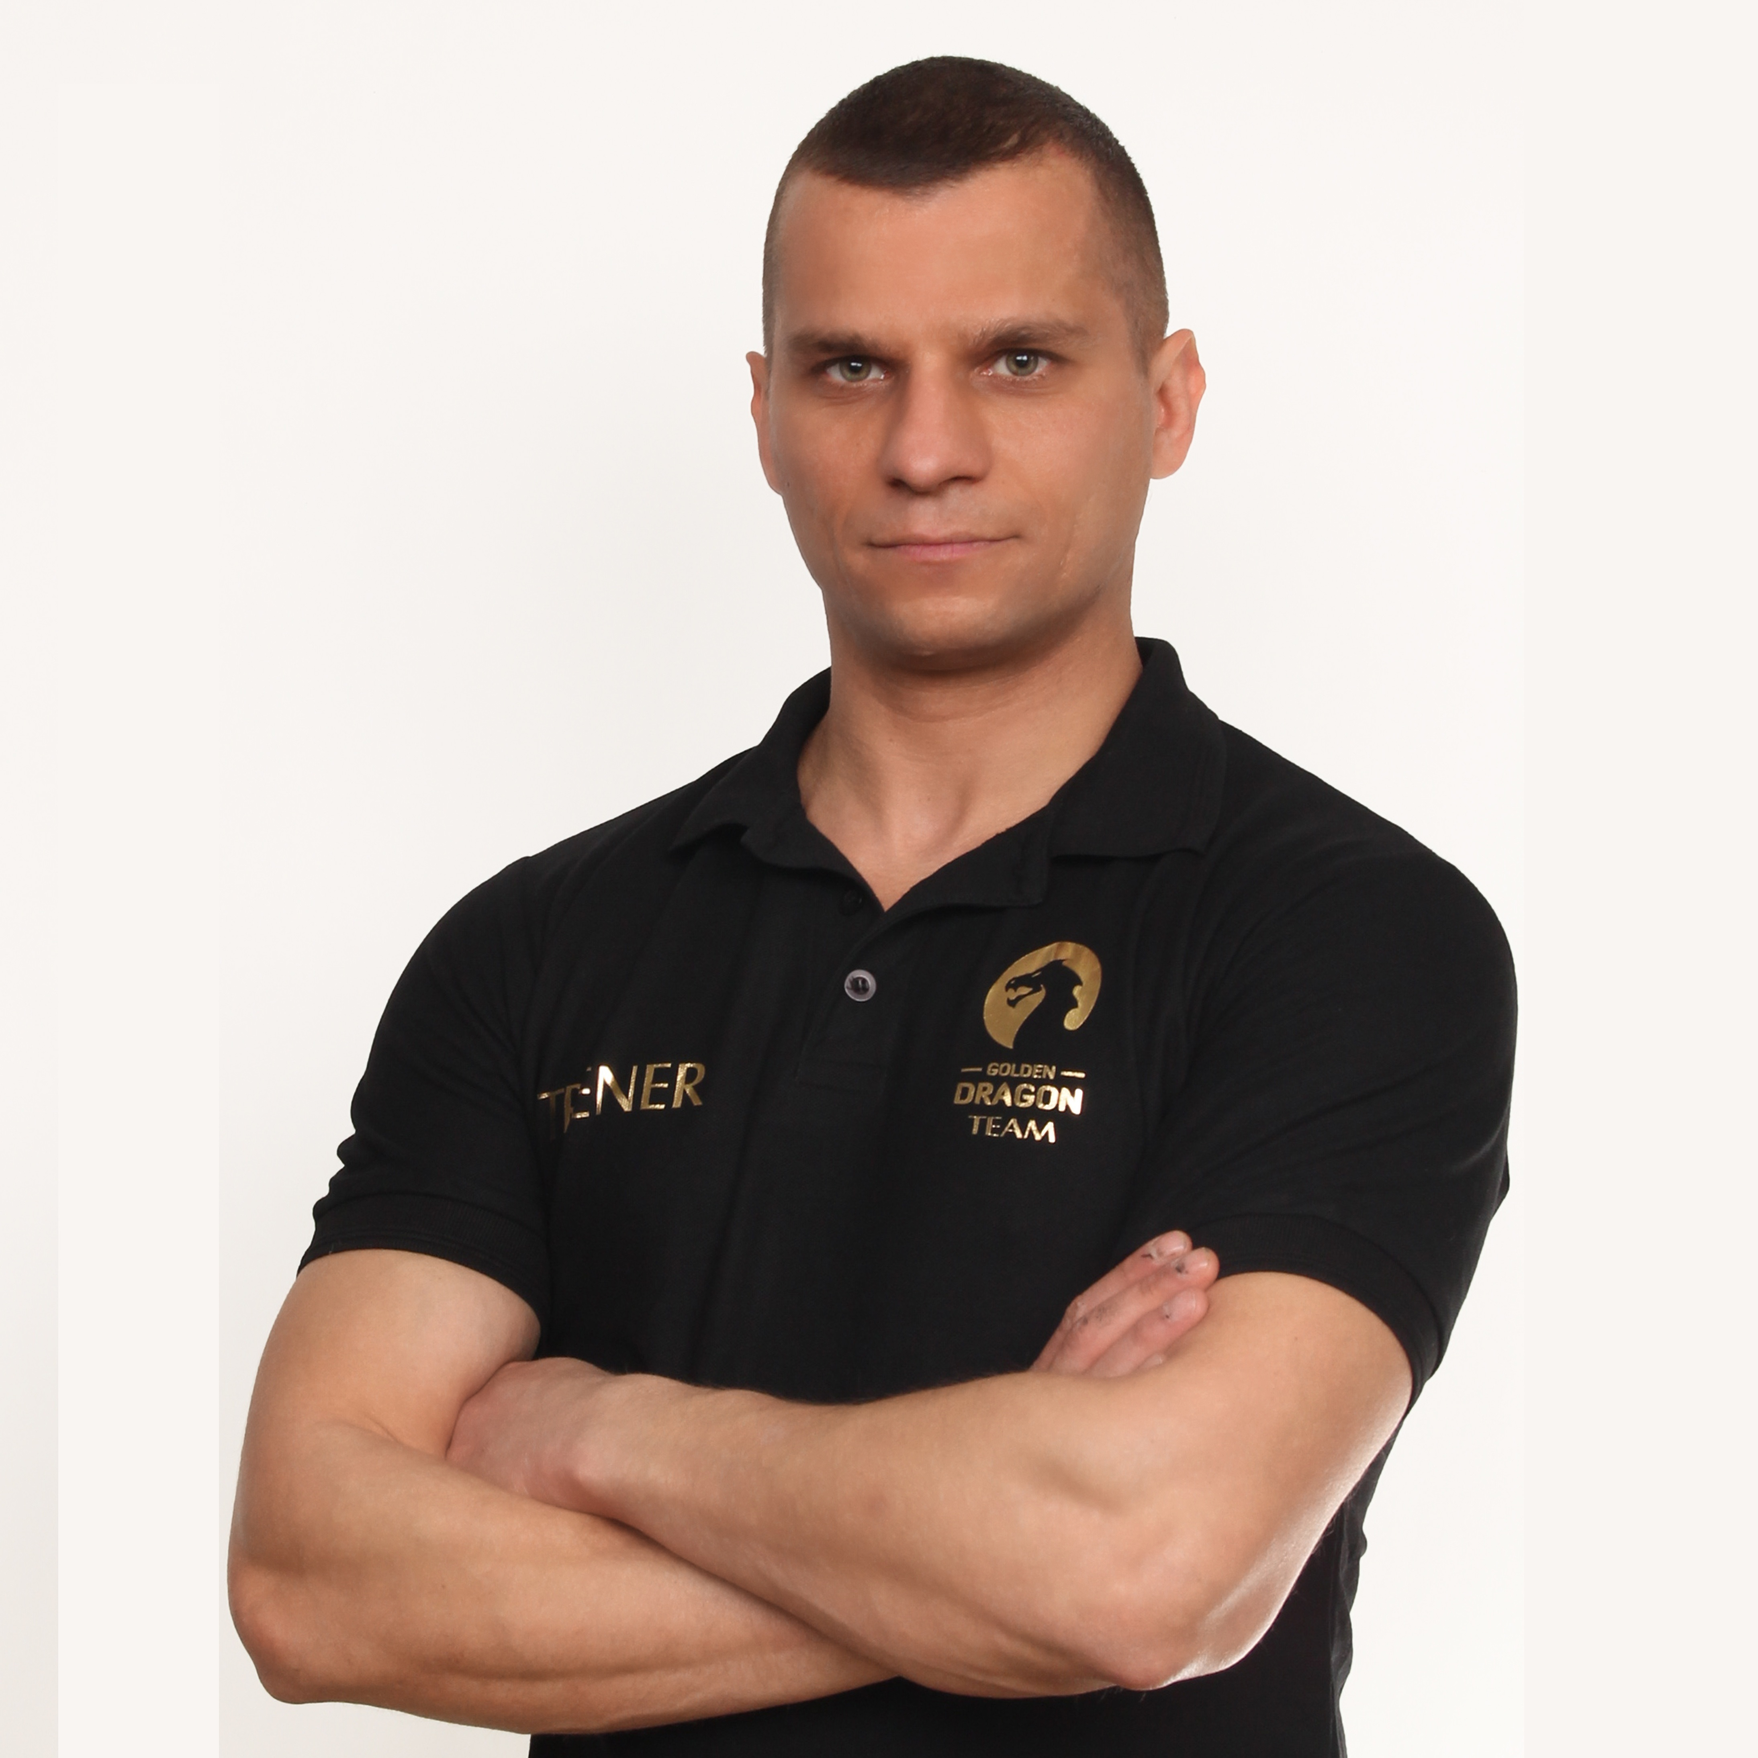
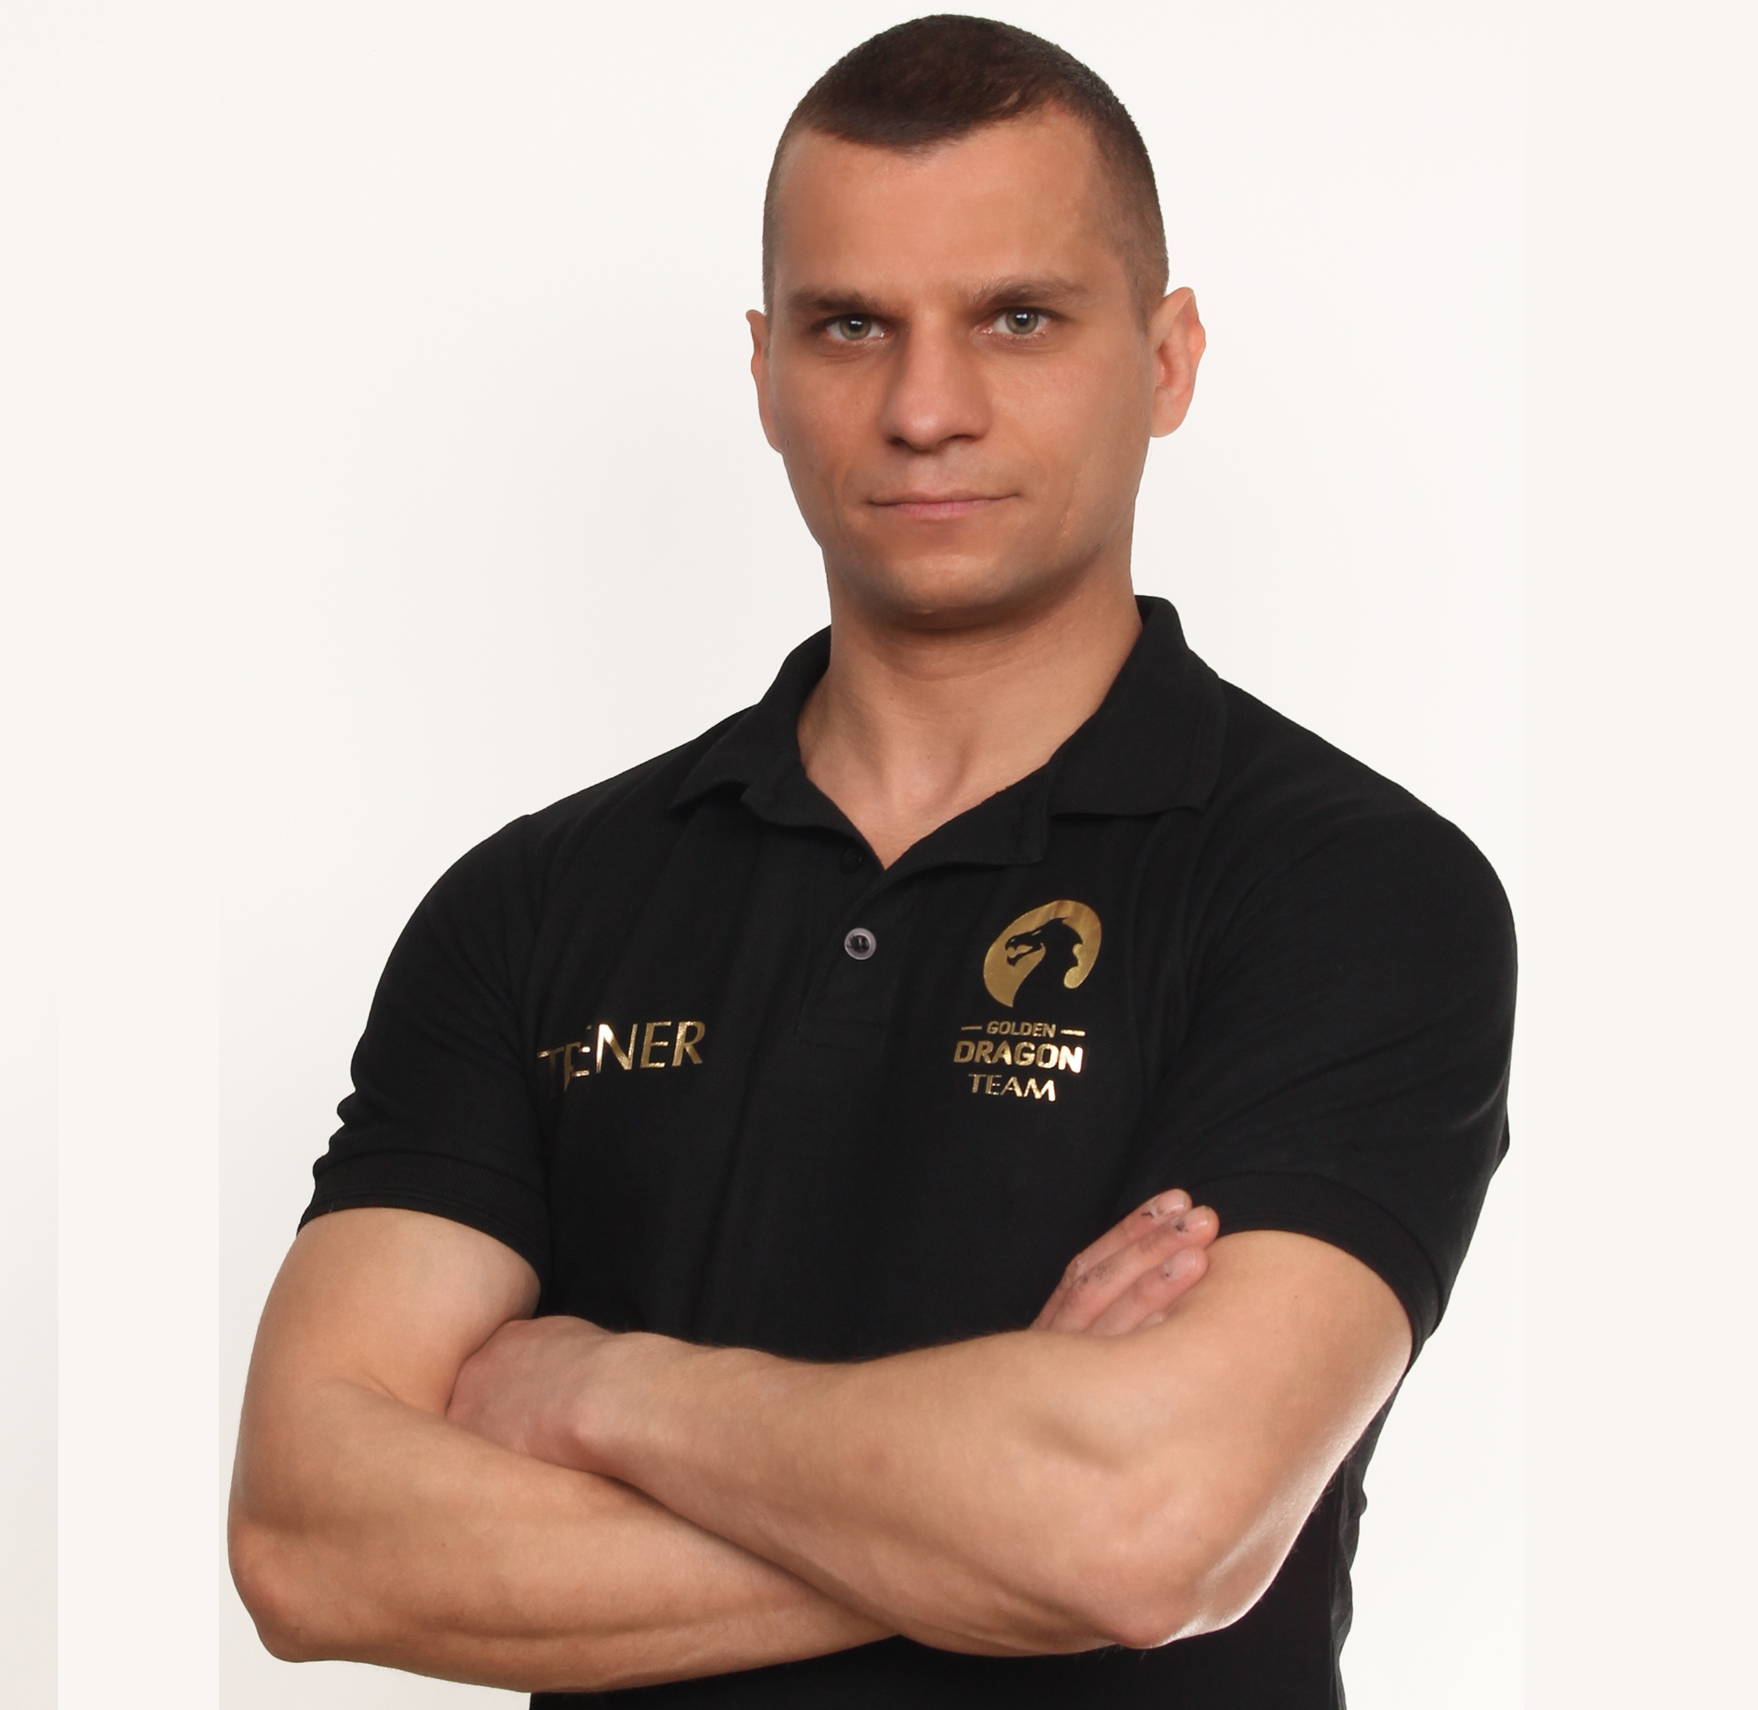
Trener added

diff --git a/CSS/styleTO.css b/CSS/styleTO.css
@@ -7,35 +7,36 @@
 
 
 /* START course */
-#course {
+#club-back {
   color: #292b2c;
   text-align: left;
 }
 
-#course h3 {
+#club-back h3 {
+  text-justify: inter-word; text-align: justify;
   color: #45606d;
-  text-align: left;
+
 }
-#course h5 {
+#club-back h5 {
+  text-justify: inter-word; text-align: justify;
+  color: #5e686d;
+
+  font-weight: 400;
+}
+#club-back i {
   color: #5e686d;
   text-align: left;
   line-height: 20pt;
   font-weight: 400;
 }
-#course i {
-  color: #5e686d;
-  text-align: left;
-  line-height: 20pt;
-  font-weight: 400;
-}
-#course ul {
+#club-back ul {
   display: table-row;
   font-weight: 600;
   font-size: 120%;
   color: #292b2c;
   list-style-type: none;
 }
-#course ul li {
+#club-back ul li {
   margin: auto;
   display: table-cell;
   list-style-type: none;

diff --git a/CSS/main.css b/CSS/main.css
@@ -59,6 +59,9 @@ body {
   right: 0;
   height: 0px;
 }
+#club-back{
+  margin-top: -20px;
+}
 
 /* END AKADEMIA SECTION */
 
@@ -154,10 +157,14 @@ body {
 
 .card-body h7 {
   font-size: 13px;
+  text-justify: inter-word; text-align: justify;
 }
 
 .card-body h6 {
   font-size: 11px;
+}
+.card img {
+ 
 }
 /* END CARDS DESIGN */
 

diff --git a/index.php b/index.php
@@ -82,71 +82,49 @@ if (isset($_POST['email']) && $_POST['email'] != '') {
     <section id="Akademia"></section>
     <div id="club-back">
         <div class="container ">
+        <br>
+        
             <div class="row justify-content-center ">
+           
+            <h4 class="text-dark  " style="font-size: 150%; text-justify: inter-word; text-align: justify;"> Założycielem Akademii jest trener <B>Michał Grabarek</B> z wieloletnim doświadczeniem w pracy z dziećmi.</h4><br>
 
-                <div class="col-lg-4 col-md-6 mb-4 text-center hide-this " style="margin-top:55px;">
+                <div class="col-lg-4 col-md-6 mb-4 text-center hide-this " style="margin-top:15px;">
 
-                    <img src="./img/site/mlodsza.jpg" class="img-fluid my-4 border border-secondary img-start "><br><br>
-                    <img src="./img/site/mieszana.jpg" class="img-fluid my-4 border border-secondary img-start "><br><br>
-                    <img src="./img/site/starsza.jpg" class="img-fluid my-4 border border-secondary img-start moreText">
+                    <img src="./img/site/mlodsza.jpg" class="img-fluid my-1 border border-secondary img-start ">
+                    <img src="./img/site/mieszana.jpg" class="img-fluid my-1 border border-secondary img-start ">
+                    <img src="./img/site/starsza.jpg" class="img-fluid my-1 border border-secondary img-start ">
 
                 </div>
                 <div class="col-lg-8">
                     <p>
-                    <h1 class="text-dark pb-3 h2-responsive header-panel" style=" font-size: 250%;">AKADEMIA WOJOWNIKÓW </h1>
-                    <h4 class="content-text  pb-3 h4-responsive my-py-2"> Założycielem Akademii jest trener <B>Michał Grabarek</B> z wieloletnim doświadczeniem w pracy z dziećmi.
-                        Treningi organizowane są na Fordonie, Osowej Górze i Wyżynach. <p></p>
-                        <B>Akademia Wojowników</B> powstała z pasji do sportu oraz chęci zarażenia nią najmłodszych. Efektywne treningi zapewniają nasi wykwalifikowani trenerzy, a także przeszkoleni trenerzy z wykształceniem pedagogicznym, którzy <b>zajęcia prowadzić będą w szkołach.</b>
-                        <p></p>
-                        <B>Akademia Wojowników</B> to miejsce, w którym zadbamy o prawidłowy rozwój Twojego dziecka, uczymy pokonywania własnych słabości i współpracy. Zajęcia sportowe z elementami sportów walki są idealnym sposobem na wypełnienie wolnego czasu, a także budowanie sprawności fizycznej i pewności siebie u dzieci.
-                        <p></p>
+                    <!-- <h1 class="text-dark pb-3 h2-responsive header-panel" style=" font-size: 250%;">AKADEMIA WOJOWNIKÓW </h1>s -->
+                    
+                    <h4 class="content-text  pb-3 h4-responsive "> 
+                    <div class="my-2">  <B>Akademia Wojowników</B>  powstała z pasji do sportu oraz chęci zarażenia nią najmłodszych, to miejsce, w którym zadbamy o prawidłowy rozwój Twojego dziecka, uczymy pokonywania własnych słabości i współpracy z rówieśnikami . Zajęcia sportowe z elementami sportów walki są idealnym sposobem na wypełnienie<B> wolnego czasu</B>, a także budowanie sprawności fizycznej i pewności siebie u dzieci. Zajęcia prowadzone są w oparciu o najnowsze metody treningowe przez doświadczonych trenerów.</div>
+                    <div class="my-2"> Obecnie dzieci szybko się<B> nudzą</B> i niełatwo je zainteresować na dłuższy czas, ciężko im także dostrzec <b>cel</b> w systematycznych treningach. Opracowany przez trenera Michała Grabarka system motywacji i nagradzania, zachęca dzieci do większego skupienia i wysiłku na treningach.</div>
+                      Jeżeli Twoje dziecko jest <B>nadpobudliwe</B> i ma ciągłą potrzebę ruchu w akademii nauczy się koncentracji, kontrolowania ruchów i samodyscypliny. Będzie miało możliwości rozładowania swoich emocji w pozytywny sposób <p></p>
 
-                        <B>Obalamy mity</B> - sztuki walki mogą być i są bezpieczne, dzięki specjalnej formule bezkontaktowej, która pozwala podopiecznym na trening "bez siniaków" przy zachowaniu szeregu korzyści z ćwiczeń.
-                        Od dawna wiadomo, że sztuki walki to wyjątkowa forma aktywności ucząca wytrwałości, zwinności i radzenia sobie ze stresem, a także pomagająca korygować wady postawy.
-                        Zwłaszcza w dobie koronawirusa i spadku aktywności wśród dzieci, naszym celem jest stworzenie bezpiecznego miejsca, w którym podopieczni poprawią koordynację, zrzucą zbędne kilogramy, a także nauczą się cierpliwości i kontrolowania swoich emocji.<p></p>
-                        Zajęcia prowadzone są w oparciu o najnowsze metody treningowe przez doświadczonych trenerów. Dodatkowym atutem są niewielkie grupy, dzięki czemu podchodzimy indywidualnie do każdego Wojownika. Ponadto stale obserwujemy rozwój naszych podopiecznych poprzez cykliczne testy sprawnościowe, które obrazują ich rozwój i wskazują nad czym należy jeszcze popracować.
-                        <span class="moreText">
-                            <p></p>Zachęcamy także rodziców do czynnego udziału w naszych treningach, co jest nie tylko świetną formą spędzania czasu z dzieckiem, ale także szansą na obserwowanie postępów swojej pociechy. Udział rodzica w treningu pozwala na lepszą kontrolę nad poprawnością wykonywanych ćwiczeń oraz zwiększa motywację u dzieci, które są wtedy bardziej skupione na wykonywanych zadaniach. Dodatkowo Wojownicy biorą udział w zawodach, gdzie uczą się zdrowej rywalizacji i jest to szansa na sprawdzenie siebie oraz swoich umiejętności.
-                            <p></p>Ponadto szeregi naszej kadry zasilają specjaliści, z którymi nawiązaliśmy współpracę:
-                            <b>
-                                <ul style="margin-left:3rem;">
-                                    <p>
-                                        <li> psycholog dziecięcy,</li>
-
-                                        <li> dietetyk,</li>
-
-                                        <li> fizjoterapeuta.</li>
-                                </ul>
-                                </p>
-                        </span>
-                        </p>
+                        <B>Obalamy mity</B> - sztuki walki mogą być i są bezpieczne dzięki specjalnej formule bezkontaktowej (4-6 lat) oraz  formule light-contact (+7 lat). Formuły te pozwalają podopiecznym na bezpieczny trening przy zachowaniu szeregu korzyści z ćwiczeń. Od dawna wiadomo, że sztuki walki to wyjątkowa forma aktywności ucząca wytrwałości, zwinności i radzenia sobie ze stresem, a także pomagająca korygować wady postawy. W obecnej  sytuacji epidemicznej w kraju i spadku aktywności wśród dzieci naszym celem jest stworzenie bezpiecznego miejsca, w którym podopieczni poprawią koordynację, zrzucą zbędne kilogramy, a także nauczą się cierpliwości i kontrolowania swoich emocji. 
+                        
+                   
+                            <p></p>Dodatkowym atutem są niewielkie grupy(max 16 os.), dzięki czemu podchodzimy indywidualnie do każdego Wojownika. Ponadto stale obserwujemy rozwój naszych podopiecznych poprzez cykliczne testy sprawnościowe, które obrazują ich rozwój.
+                            <p></p>Zachęcamy także rodziców do czynnego udziału w naszych treningach, co jest nie tylko świetną formą spędzania czasu z dzieckiem, ale także szansą na obserwowanie postępów swojej pociechy. Udział rodzica w treningu pozwala na lepszą kontrolę nad poprawnością wykonywanych ćwiczeń oraz zwiększa motywację u dzieci, które są wtedy bardziej skupione na wykonywanych zadaniach.
+                           <p></p>
+                      
+                        
 
                     </h4>
                 </div>
             </div>
         </div>
-        <section id="team" class="moreText">
-            <div class="card-deck  container-fluid justify-content-center ">
-                <div class="card">
-                    <div class="card-body">
-                        <!-- class=" rounded-circle mb-1"  -->
-                        <img src="img/Profil/MG.JPG" class=" rounded-circle mb-1">
-                        <h3 class="person-name" style="font-size: 200%;">Michał Grabarek</h3><br>
-                        <h5 style="font-size: 150%;">BOKS, KICK-BOXING</h5><br>
-                        <h7 style="font-size: 100%;">
-                            <p class="text-dark" style="font-size: 100%;"> Były zawodnik, zdobył kilkanaście medali Pucharu i Mistrzostw Polski oraz Europy. Prowadzenia zajęć nauczył się między innymi na obozach w Tajlandii, Holandii i Francji. Ukończył kurs instruktora sportu - ogólny oraz specjalistyczny z zakresu: Muay Thai, K-1, Kick-Boxing.
-                        </h7>
-                    </div>
-                </div>
-            </div>
-        </section>
+        
 
-        <div id="btn-div" style="text-align:center;">
-            <button class="btn  read-more-btn" onclick="ShowOrHideTxt();">Czytaj dalej</button><i class="fas fa-chevron-down "></i>
-        </div>
+       
         
     </div>
     <br>
+
+   
     <section id="Dlaczego-akademia"></section>
 
     </br>

diff --git a/Trener.php b/Trener.php
@@ -1,0 +1,78 @@
+<!DOCTYPE html>
+
+<html lang="en">
+<style>
+    <?php include './CSS/styleTO.css'; ?>
+</style>
+
+<head>
+    <meta charset="utf-8">
+    <meta name="viewport" content="width=device-width, initial-scale=1">
+    <title>Akademia Wojowników</title>
+    <link rel="stylesheet" href="https://maxcdn.bootstrapcdn.com/bootstrap/4.0.0/css/bootstrap.min.css">
+    <script src="https://ajax.googleapis.com/ajax/libs/jquery/3.5.1/jquery.min.js"></script>
+    <script src="https://cdnjs.cloudflare.com/ajax/libs/popper.js/1.12.9/umd/popper.min.js"></script>
+    <script src="https://maxcdn.bootstrapcdn.com/bootstrap/4.0.0/js/bootstrap.min.js"></script>
+    <script src="https://use.fontawesome.com/releases/v5.0.8/js/all.js"></script>
+    <link href="./CSS/styleTO.css" rel="stylesheet">
+
+    <link rel="stylesheet" href="https://m.w3newbie.com/you-tube.css">
+    <link rel="stylesheet" type="text/css" href="./lightbox.css">
+    <script src="https://unpkg.com/ionicons@5.4.0/dist/ionicons.js"></script>
+    <script src="https://ajax.googleapis.com/ajax/libs/jquery/1.12.0/jquery.min.js"></script>
+    <script type="text/javascript" src="js/lightbox-plus-jquery.min.js"></script>
+    <script src="./js/TreningiOnline.js"></script>
+    <script src="js/main.js"></script>
+    <link href='https://css.gg/add.css' rel='stylesheet'>
+    <link href="http://maxcdn.bootstrapcdn.com/font-awesome/4.1.0/css/font-awesome.min.css" rel="stylesheet">
+    <link src="https://stackpath.bootstrapcdn.com/font-awesome/4.7.0/css/font-awesome.min.css" rel="stylesheet">
+    <link src="https://stackpath.bootstrapcdn.com/bootstrap/5.0.0-alpha2/css/bootstrap.min.css" rel="stylesheet">
+
+</head>
+
+<body>
+    <?php include('./header.php'); ?>
+    <div id="main-panel" class="container-fluid ">
+        <div class="intro " style=" padding-top: 150px;">
+            
+        </div>
+    </div>
+    <div id="club-back" style=" padding-top: 50px;">
+        <div class="container ">
+            
+        
+            <div class="row justify-content-center ">
+
+                <div class="col-lg-4 col-md-6 mb-4 text-center " style="margin-top:0px;">
+                <img src="img/Profil/MG.JPG" class="img-fluid my-1 border border-secondary  ">
+                </div>
+                <div class="col-lg-8">
+                <h2 id="type"  style="font-weight: 900; font-size: 210%;">MICHAŁ GRABAREK </h2>
+                        <!-- <h2 id="data" style=" font-size: 140%;">01.04.2020</h2> -->
+                        <p></p>
+                        <h3 id="author" class="my-4" style="font-size: 110%;">Moje doświadczenie i lata praktyki pozwoliły mi na wypracowanie skutecznej oraz efektywnej metodyki prowadzenia zajęć dla dzieci.</h3>
+                        
+                        <div>
+                            <h5 style="font-size: 100%;">
+                                <label id="desc"> Przez 12 lat trenował karate SHOTOKAN , zdobywając w tej dyscyplinie kilkanaście medali Mistrzostw i Pucharu Polski.W 2003 roku zaczął trenować nowy styl Muay Thai , dwukrotnie sięgnął po tytuł Mistrza i Puchar Polski oraz Puchar Europy Muay Thai i K-1 rules. Jest medalistą wielu międzynarodowych i ogólnopolskich turniejów oraz uczestnikiem gal zawodowych i amatorskich. Od 2009 roku prowadzi treningi z zakresu Muay Thai, i Kick-boxingu. Prowadzenia zajęć uczył się m.in. na obozach we Francji, Tajlandii i Holandii od najlepszych zawodników na świecie. Na zaproszenie naszego klubu przyjechali do Bydgoszczy: legenda muaythai Ramon Dekkers, mistrz K-1 Remy Bonyaski oraz pierwszy Polak UFC Tomasz Drwal i zawodowy bokser Rafał Jackiewicz.
+                                </label>
+                        </div>
+                        <br>
+                        <ul>
+                            <li><i class="far fa-clock img-fluid "></i> <label id="time">15 min</label></li> &nbsp;&nbsp;&nbsp;
+                            <li><i class="far fa-star img-fluid "></i> <label id="level">Trudny</label></li>
+                        </ul>
+                </div>
+            </div>
+        </div>
+        
+
+        
+    </div>
+   
+
+    <?php include('./footer.php'); ?>
+
+</body>
+
+</html>

diff --git a/header.php b/header.php
@@ -114,7 +114,7 @@
                     <a class="nav-link" href="https://akademiawojownika.herokuapp.com/#Akademia"><span data-toggle="collapse"  data-target="#navbarNav"  class="bookmarks">AKADEMIA</span></a>
                
                
-                    <a class="nav-link" href="https://akademiawojownika.herokuapp.com/#Dlaczego-akademia"><span data-toggle="collapse" data-target="#navbarNav" class="bookmarks">Dlaczego akademia?</span></a>
+                    <a class="nav-link" href="Trener.php"><span data-toggle="collapse" data-target="#navbarNav" class="bookmarks">Dlaczego akademia?</span></a>
                 
                
                     <a class="nav-link" href="https://akademiawojownika.herokuapp.com/#Zajęcia"><span data-toggle="collapse" data-target="#navbarNav" class="bookmarks">ZAJĘCIA</span></a>
